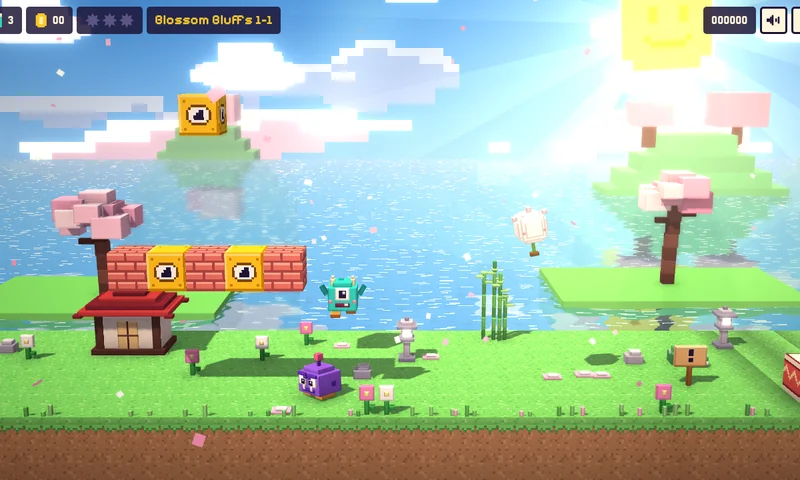
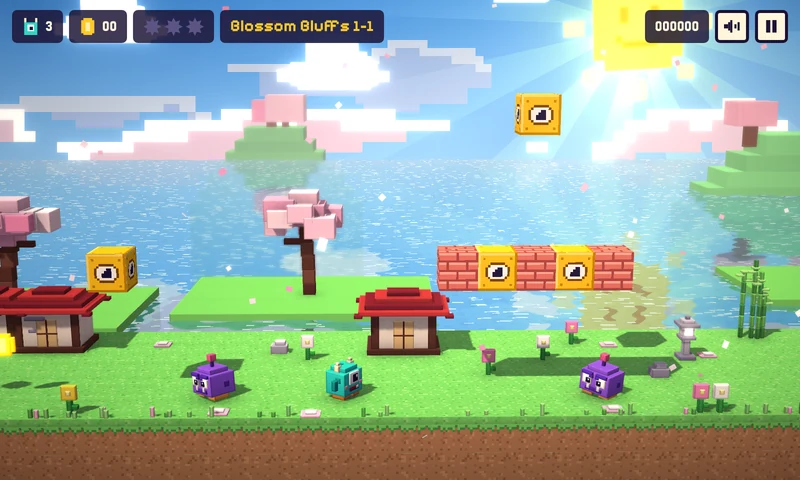
Give Blorp's Big Romp 3 its finished card picture
Claude-Session: https://claude.ai/code/session_01YFMgBHPWA8UPSjfFZHTWhJ

diff --git a/index.html b/index.html
@@ -197,7 +197,7 @@ footer a:hover { color: var(--text); }
     </li>
 
     <li class="game" style="--accent:#ff9a3d">
-      <div class="shot"><img src="assets/blorps-big-romp-3.webp" width="800" height="480" alt="Blorp's Big Romp 3: Blorp in a garden of cherry trees and red gates, with hills and clouds mirrored in a river behind him."></div>
+      <div class="shot"><img src="assets/blorps-big-romp-3.webp" width="800" height="480" alt="Blorp's Big Romp 3: Blorp between two purple monsters in a garden of cherry trees and red-roofed tea houses, with clouds and islands mirrored in the water behind."></div>
       <div class="body">
         <p class="kind">Platformer · voxel</p>
         <h2>Blorp's Big Romp 3</h2>
